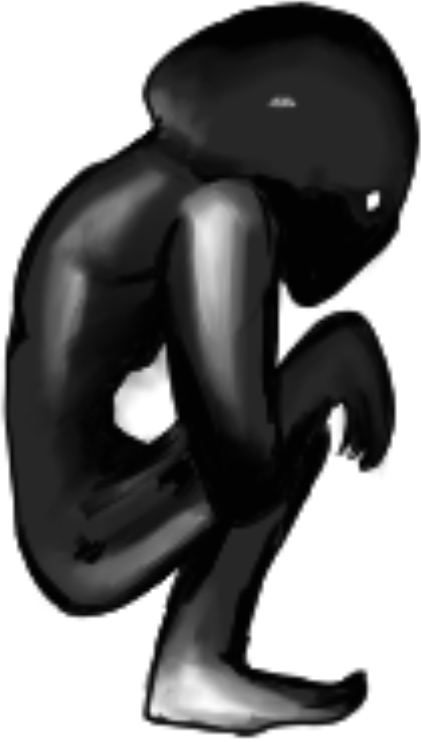
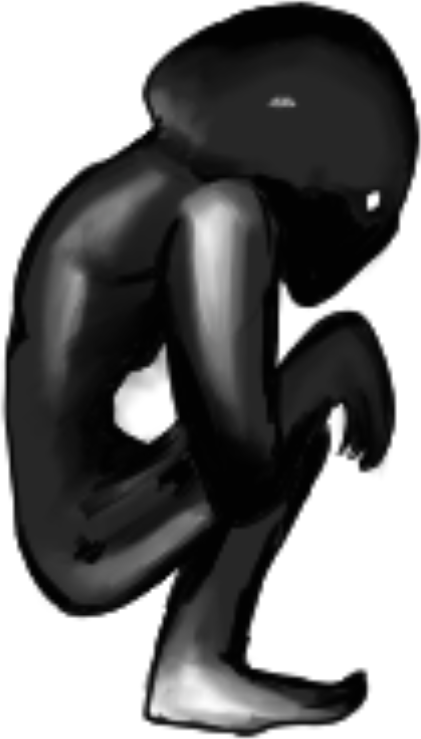
Patrol anomalies get their own bigger drawings: a runner and a ceiling hanger
Sprint is the four legged runner (three frames: slow steps on patrol, fast on the dash, held while it winds
up), rolled once per spawn to run on the floor or upside down on the ceiling. CoverHug hangs from the top of
the screen and drifts from door to door above the hallway doors; its band used to sit at mid wall height.
Blink and Slide keep the crouched body but are 3 units tall now (was 1.9), Sprint is about 4.5 wide and
CoverHug about 4.6. The exposed face is placed on each drawing's head. prep_characters.py now really makes
all four pictures.

diff --git a/Assets/_Project/Scripts/Horror/WanderingAnomaly.cs b/Assets/_Project/Scripts/Horror/WanderingAnomaly.cs
@@ -83,11 +83,13 @@ namespace Hollowbrook.Horror
             };
 
             _sr = gameObject.AddComponent<SpriteRenderer>();
-            _sr.sprite = ProceduralArt.Get("char_anomaly");   // one body for now, behaviours differ
+            _sr.sprite = ProceduralArt.Get(BehaviorProfile.ArtKey(kind));
+            if (kind == AnomalyBehaviorKind.Sprint) LoadRunFrames();
             _sr.sortingOrder = 40; // under the darkness overlay => silhouette in dim light
 
             // spawn INSIDE the behavior's own vertical band - no contradictory coordinates
-            transform.localPosition = new Vector3(spawn.x, RoomInstance.FloorY + _profile.SpawnY, 0);
+            float startX = kind == AnomalyBehaviorKind.CoverHug ? BehaviorProfile.NearestDoorX(spawn.x) : spawn.x;   // the hanger starts above a door
+            transform.localPosition = new Vector3(startX, RoomInstance.FloorY + _profile.SpawnY, 0);
             _lastX = spawn.x;
             _lifetime = hallucination ? GameRules.Current.PhantomLifetimeSeconds : GameRules.Current.AnomalyLifetimeSeconds;
             PickWanderTarget(PlayerPos());
@@ -173,6 +175,7 @@ namespace Hollowbrook.Horror
             }
             MoveBehavior(dt, views, sameRoom, active);
             FaceTheWayItMoves();
+            AnimateRun(dt);
             TickVisibility(views, sameRoom);
             if (active) ProximityEffects(dt, views);
         }
@@ -334,7 +337,42 @@ namespace Hollowbrook.Horror
 
         /// <summary>The spawner hands each anomaly a seed derived from the run rng, so
         /// wander targets and retreat sides replay identically for the same run.</summary>
-        public void SeedMovement(int seed) => _moveRng = new GameRng(seed);
+        public void SeedMovement(int seed)
+        {
+            _moveRng = new GameRng(seed);
+            // the runner is on the floor or upside down on the ceiling, rolled once per spawn
+            if (Kind == AnomalyBehaviorKind.Sprint && !IsHallucination && _moveRng.Chance(0.5f)) RunOnCeiling();
+        }
+
+        public bool OnCeiling { get; private set; }
+
+        private void RunOnCeiling()
+        {
+            OnCeiling = true;
+            var p = transform.localPosition;
+            p.y = RoomInstance.FloorY + _profile.MaxY;
+            transform.localPosition = p;
+            _sr.flipY = true;
+        }
+
+        // The runner is three drawn frames: slow steps on patrol, fast on the dash, held still while it winds up.
+        private Sprite[] _runFrames;
+        private float _frameClock;
+
+        private void LoadRunFrames()
+        {
+            _runFrames = new[] { ProceduralArt.Get("char_anomaly_sprint_a"), ProceduralArt.Get("char_anomaly_sprint_b"), ProceduralArt.Get("char_anomaly_sprint_c") };
+        }
+
+        private void AnimateRun(float dt)
+        {
+            if (_runFrames == null || _sr == null) return;
+            float fps = 5f;
+            if (_dashTimer > 0f) fps = 14f;
+            else if (_telegraph >= 0f || _dashRecover > 0f) fps = 0f;
+            _frameClock += fps * dt;
+            _sr.sprite = _runFrames[(int)_frameClock % _runFrames.Length];
+        }
 
         private void BeginRetreat(ViewManager views)
         {
@@ -459,9 +497,20 @@ namespace Hollowbrook.Horror
 
         private void PickWanderTarget(Vector3 player)
         {
+            if (Kind == AnomalyBehaviorKind.CoverHug) { PickDoorTarget(); return; }
             float half = _room != null ? _room.HalfWidth : 10f;
             _targetX = -half + 1f + MoveRng.NextFloat() * Mathf.Max(0.1f, (half - 1f) * 2f);
             if (Mathf.Abs(_targetX - player.x) < 2f) _targetX = -_targetX;
+        }
+
+        // The ceiling hanger drifts from door to door along the top of the hallway.
+        private void PickDoorTarget()
+        {
+            float here = transform.localPosition.x;
+            float door = here;
+            for (int tries = 0; tries < 6 && Mathf.Abs(door - here) < 1f; tries++)
+                door = BehaviorProfile.DoorXs[MoveRng.NextInt(0, BehaviorProfile.DoorXs.Length)];
+            _targetX = door;
         }
 
         private void PickSlideTarget(Vector3 player, bool stalking)
@@ -478,10 +527,16 @@ namespace Hollowbrook.Horror
         private void ShowFace()
         {
             if (_faceGo != null) { _faceGo.SetActive(true); return; }
+            // where the head is in each drawing, and how big the shown face is
+            var head = new Vector2(0.3f, 1.2f);   // the crouched thing: its bowed head
+            float size = 0.87f;
+            if (Kind == AnomalyBehaviorKind.Sprint) { head = new Vector2(1.7f, OnCeiling ? -0.45f : 0.45f); size = 0.7f; }
+            else if (Kind == AnomalyBehaviorKind.CoverHug) { head = new Vector2(-0.3f, -0.55f); size = 0.6f; }
+            if (_sr.flipX) head.x = -head.x;
             _faceGo = new GameObject("ExposedFace");
             _faceGo.transform.SetParent(transform, false);
-            _faceGo.transform.localPosition = new Vector3(0.2f, 0.75f, -0.1f);   // over the bowed head
-            _faceGo.transform.localScale = new Vector3(0.55f, 0.55f, 1f);
+            _faceGo.transform.localPosition = new Vector3(head.x, head.y, -0.1f);
+            _faceGo.transform.localScale = new Vector3(size, size, 1f);
             _face = _faceGo.AddComponent<SpriteRenderer>();
             _face.sprite = ProceduralArt.Portrait("anom",
                 new Portrait { HairStyle = 2, FaceVariant = 4, Accessory = 0, Distorted = true }, 96, 120);

diff --git a/Assets/_Project/Scripts/GameLogic/AnomalyBehaviorRules.cs b/Assets/_Project/Scripts/GameLogic/AnomalyBehaviorRules.cs
@@ -46,9 +46,42 @@ namespace Hollowbrook.Logic
     /// floor line (world y = floorY + offset), so spawn and clamp bands can never contradict.</summary>
     public struct BehaviorProfile
     {
-        /// <summary>Height of a ground anomaly's centre above the floor line. Its art is 1.9 units
-        /// tall (ProceduralArt FilePpus), so half of that puts its feet on the floor.</summary>
-        public const float GroundCentreY = 0.95f;
+        /// <summary>The picture key of an anomaly kind. Blink and Slide share the crouched body.</summary>
+        public static string ArtKey(AnomalyBehaviorKind kind)
+        {
+            switch (kind)
+            {
+                case AnomalyBehaviorKind.Sprint: return "char_anomaly_sprint_a";
+                case AnomalyBehaviorKind.CoverHug: return "char_anomaly_coverhug";
+                default: return "char_anomaly";
+            }
+        }
+
+        /// <summary>Where the hallway doors are along its length (FloorPlan HallX). The ceiling hanger drifts above them.</summary>
+        public static readonly float[] DoorXs = { -13.8f, -8.8f, 0.4f, 8.6f, 11.0f, 13.3f };
+
+        public static float NearestDoorX(float x)
+        {
+            float best = DoorXs[0];
+            foreach (float d in DoorXs)
+                if (System.Math.Abs(d - x) < System.Math.Abs(best - x)) best = d;
+            return best;
+        }
+
+        // How tall each drawing is on screen, in world units (the picture sizes are set in ProceduralArt FilePpus).
+        public const float CrouchedHeight = 3.0f;   // Blink and Slide: the crouched thing, a bit more than the guard
+        public const float RunnerHeight = 2.5f;     // Sprint: the four legged runner (it is about 4.5 wide)
+        public const float HangerHeight = 1.9f;     // CoverHug: it hangs from the ceiling (about 4.6 wide)
+
+        /// <summary>The top of the screen, as a height above the floor line: the camera shows 5 units above its
+        /// middle and the floor line sits 3.1 below the middle. The hallway ceiling is up there.</summary>
+        public const float TopOfScreenY = 8.1f;
+
+        /// <summary>Height of a crouched anomaly's centre above the floor line: half its height puts its feet on the floor.</summary>
+        public const float GroundCentreY = CrouchedHeight * 0.5f;
+        public const float RunnerFloorY = RunnerHeight * 0.5f;                  // the runner on the floor
+        public const float RunnerCeilingY = TopOfScreenY - RunnerHeight * 0.5f; // the runner upside down on the ceiling
+        public const float HangerCentreY = TopOfScreenY - HangerHeight * 0.5f;  // hangs from the top edge of the screen
 
         public float MoveSpeed;
         public float SpawnY;              // floor-relative spawn height
@@ -90,7 +123,7 @@ namespace Hollowbrook.Logic
                     break;
                 case AnomalyBehaviorKind.Sprint:
                     p.MoveSpeed = t.SprintSpeed;
-                    p.SpawnY = GroundCentreY; p.MinY = GroundCentreY; p.MaxY = GroundCentreY;
+                    p.SpawnY = RunnerFloorY; p.MinY = RunnerFloorY; p.MaxY = RunnerCeilingY;   // the floor or the ceiling
                     p.CatchGraceSeconds = t.CatchGraceSprint;
                     p.TelegraphSeconds = t.SprintTelegraphSeconds;
                     p.DashSpeed = t.SprintDashSpeed;
@@ -100,7 +133,7 @@ namespace Hollowbrook.Logic
                     break;
                 default: // CoverHug - ceiling lurker; spawn inside its own band, never clamped out
                     p.MoveSpeed = t.CoverHugSpeed;
-                    p.SpawnY = 4.4f; p.MinY = 3.6f; p.MaxY = 4.6f;
+                    p.SpawnY = HangerCentreY; p.MinY = HangerCentreY; p.MaxY = HangerCentreY;
                     p.CatchGraceSeconds = t.CatchGraceCoverHug;
                     p.CeilingLurker = true;
                     break;

diff --git a/Tools/LogicTests/Program.cs b/Tools/LogicTests/Program.cs
@@ -1944,14 +1944,26 @@ namespace Hollowbrook.LogicTests
             Check(blink.CatchGraceSeconds == bt.CatchGraceBlink && slide.CatchGraceSeconds == bt.CatchGraceSlide &&
                   sprint.CatchGraceSeconds == bt.CatchGraceSprint && hug.CatchGraceSeconds == bt.CatchGraceCoverHug,
                 "catch windups are per-behavior - no shared coverHug-named constant");
-            Check(Math.Abs(hug.SpawnY - 4.4f) < 1e-3f && hug.SpawnY >= hug.MinY && hug.SpawnY <= hug.MaxY,
+            Check(Math.Abs(hug.SpawnY - BehaviorProfile.HangerCentreY) < 1e-3f && hug.SpawnY >= hug.MinY && hug.SpawnY <= hug.MaxY,
                 "CoverHug spawns INSIDE its own clamp band (no contradictory coordinates)");
-            Check(Math.Abs(blink.SpawnY - BehaviorProfile.GroundCentreY) < 1e-3f && slide.SpawnY == blink.SpawnY && sprint.SpawnY == blink.SpawnY,
-                  "ground anomalies sit low: their small body stands on the floor line");
-            Check(BehaviorProfile.GroundCentreY < 1.2f, "...a crouched thing, not a giant (the old body was 2.4 high)");
-            Check(hug.MinY > blink.MaxY, "the ceiling band sits above the ground walkers");
-            Check(blink.MinY == blink.MaxY && slide.MinY == slide.MaxY && sprint.MinY == sprint.MaxY,
-                "ground walkers stay on the floor line");
+            Check(Math.Abs(hug.SpawnY + BehaviorProfile.HangerHeight * 0.5f - BehaviorProfile.TopOfScreenY) < 1e-3f,
+                "CoverHug hangs from the top of the screen: its top edge is the ceiling");
+            Check(Math.Abs(blink.SpawnY - BehaviorProfile.GroundCentreY) < 1e-3f && slide.SpawnY == blink.SpawnY,
+                  "Blink and Slide stand on the floor line");
+            Check(Math.Abs(BehaviorProfile.GroundCentreY * 2f - BehaviorProfile.CrouchedHeight) < 1e-3f, "...their centre is half their height");
+            Check(Math.Abs(sprint.SpawnY - BehaviorProfile.RunnerFloorY) < 1e-3f && Math.Abs(sprint.MinY - BehaviorProfile.RunnerFloorY) < 1e-3f
+                  && Math.Abs(sprint.MaxY - BehaviorProfile.RunnerCeilingY) < 1e-3f,
+                "the runner may be on the floor or on the ceiling: its band spans both");
+            Check(Math.Abs(BehaviorProfile.RunnerCeilingY + BehaviorProfile.RunnerHeight * 0.5f - BehaviorProfile.TopOfScreenY) < 1e-3f,
+                "...on the ceiling its back touches the top of the screen");
+            Check(hug.MinY > blink.MaxY && hug.MinY > sprint.MinY, "the ceiling band sits above the ground walkers");
+            Check(blink.MinY == blink.MaxY && slide.MinY == slide.MaxY && hug.MinY == hug.MaxY,
+                "Blink, Slide and CoverHug stay at their one height");
+            Eq(BehaviorProfile.ArtKey(AnomalyBehaviorKind.Sprint), "char_anomaly_sprint_a", "the runner has its own drawing");
+            Eq(BehaviorProfile.ArtKey(AnomalyBehaviorKind.CoverHug), "char_anomaly_coverhug", "the hanger has its own drawing");
+            Eq(BehaviorProfile.ArtKey(AnomalyBehaviorKind.Blink) + BehaviorProfile.ArtKey(AnomalyBehaviorKind.Slide), "char_anomalychar_anomaly", "Blink and Slide share the crouched body");
+            Eq(BehaviorProfile.NearestDoorX(0.9f), 0.4f, "the hanger finds the nearest door");
+            Eq(BehaviorProfile.NearestDoorX(-50f), -13.8f, "...even far away");
             Check(bt.RetreatSpeed > blink.MoveSpeed && bt.RetreatSpeed > hug.MoveSpeed, "a repelled anomaly withdraws faster than it stalks");
             var customB = bt; customB.CatchGraceCoverHug = 5f;
             Eq(BehaviorProfile.For(AnomalyBehaviorKind.CoverHug, customB).CatchGraceSeconds, 5f, "CoverHug grace is tunable on its own");

diff --git a/Tools/FlowCheck/Program.cs b/Tools/FlowCheck/Program.cs
@@ -3611,16 +3611,40 @@ namespace FlowCheck
             }
             views.Spawner.DiscardLive();
 
+            // Sprint: on the floor or upside down on the ceiling, rolled once per spawn
+            int onFloor = 0, upsideDown = 0;
+            for (int n = 0; n < 16; n++)
+            {
+                var run = views.SpawnAnomalyOfKind(AnomalyBehaviorKind.Sprint);
+                if (run == null) break;
+                if (run.OnCeiling)
+                {
+                    upsideDown++;
+                    Check(Mathf.Abs(run.Pos.y - (RoomInstance.FloorY + BehaviorProfile.RunnerCeilingY)) < 1e-3f && run.Renderer.flipY,
+                        "W6: a ceiling runner is upside down at the top of the screen");
+                }
+                else
+                {
+                    onFloor++;
+                    Check(Mathf.Abs(run.Pos.y - (RoomInstance.FloorY + BehaviorProfile.RunnerFloorY)) < 1e-3f && !run.Renderer.flipY,
+                        "W6: a floor runner stands on the floor line, the right way up");
+                }
+                views.Spawner.DiscardLive();
+            }
+            Check(onFloor > 0 && upsideDown > 0, $"W6: the runner is sometimes on the floor and sometimes on the ceiling ({onFloor} / {upsideDown})");
+
             // CoverHug: ceiling band is spawn AND clamp; only Focus identifies it
             var hug = views.SpawnAnomalyOfKind(AnomalyBehaviorKind.CoverHug);
             Check(hug != null, "W6: CoverHug spawns");
             if (hug != null)
             {
                 float floorY = RoomInstance.FloorY;
-                Check(hug.Pos.y >= floorY + 3.6f - 1e-3f && hug.Pos.y <= floorY + 4.6f + 1e-3f,
+                Check(Mathf.Abs(hug.Pos.y - (floorY + BehaviorProfile.HangerCentreY)) < 1e-3f,
                     $"W6: CoverHug spawns inside its ceiling band (y={hug.Pos.y:F2})");
+                Check(System.Array.Exists(BehaviorProfile.DoorXs, d => Mathf.Abs(d - hug.Pos.x) < 0.05f),
+                    $"W6: CoverHug starts right above a door (x={hug.Pos.x:F2})");
                 WorldFrames(root, 150);
-                Check(!hug.Gone && hug.Pos.y >= floorY + 3.6f - 1e-3f && hug.Pos.y <= floorY + 4.6f + 1e-3f,
+                Check(!hug.Gone && Mathf.Abs(hug.Pos.y - (floorY + BehaviorProfile.HangerCentreY)) < 1e-3f,
                     $"W6: CoverHug stays on the ceiling - no contradictory clamp drags it down (y={hug.Pos.y:F2})");
                 views.Player.PlaceInRoom(hall, new Vector3(Mathf.Clamp(hug.Pos.x - 3f, -hall.HalfWidth + 1f, hall.HalfWidth - 1f), 0f, 0f));
                 SetBeam(root, rig, LightMode.Sweep);

diff --git a/Tools/prep_characters.py b/Tools/prep_characters.py
@@ -10,7 +10,9 @@ relative to each other. Names the game expects:
   char_student_NN_scared.png   the same person, frightened (a scared visitor, student or anomaly)
   char_admin.png / char_admin_glitch.png   the Night-5 administrator (the Director)
   char_guard_idle.png, char_guard_walk_a.png, char_guard_walk_b.png   the player's three poses
-  char_anomaly.png   the roaming anomaly (Slide_Anomaly/Anomaly_Slide.png, cropped to its drawing)
+  char_anomaly.png   the crouched anomaly (Slide_Anomaly/Anomaly_Slide.png, cropped to its drawing), Blink and Slide
+  char_anomaly_sprint_a/b/c.png   the running anomaly's three frames (Runner_Anomaly/Anomaly_Sprint1-3.png)
+  char_anomaly_coverhug.png   the one that hangs upside down from the ceiling (Anomaly_Coverhug)
   char_hood.png      the hooded figure standing in the peek rooms (Hood_Figure_/Hood_Figure.png)
 Re-run whenever the art changes. New .png files still need a .meta (Tools/generate_meta.py).
 """
@@ -68,6 +70,22 @@ def prep_guard():
         im.crop(box).save(os.path.join(STAFF_DST, name + ".png"))
 
 
+def prep_anomalies():
+    """The patrol anomalies, all in Characters/Anomalies. The three Sprint frames share one crop box so the
+    legs and the body stay where the artist drew them from frame to frame. The Coverhug art is cut off at
+    its top edge on purpose: it hangs from the top of the screen, so that edge is the ceiling."""
+    slide = load("Slide_Anomaly/Anomaly_Slide.png")
+    slide.crop(bbox(slide)).save(os.path.join(ANOMALY_DST, "char_anomaly.png"))
+    frames = [load("Runner_Anomaly/Anomaly_Sprint%d.png" % n) for n in (1, 2, 3)]
+    boxes = [bbox(f) for f in frames]
+    box = (min(b[0] for b in boxes), min(b[1] for b in boxes), max(b[2] for b in boxes), max(b[3] for b in boxes))
+    for f, name in zip(frames, ("char_anomaly_sprint_a", "char_anomaly_sprint_b", "char_anomaly_sprint_c")):
+        f.crop(box).save(os.path.join(ANOMALY_DST, name + ".png"))
+    hug = load("Anomaly_Coverhug/Anomaly_Coverhug.png")
+    hug.crop(bbox(hug)).save(os.path.join(ANOMALY_DST, "char_anomaly_coverhug.png"))
+    print("anomalies: sprint crop", box, "coverhug", bbox(hug))
+
+
 def prep_hood():
     """The hooded figure is a small silhouette (90x152 px), so it is cropped to its drawing and
     enlarged 4x with a smooth filter: the game then draws it about 3.2 units tall without
@@ -81,6 +99,7 @@ def prep_hood():
 
 def main():
     prep_hood()
+    prep_anomalies()
     pairs = list(STUDENTS) + [ADMIN]
     crops = {}
     for pair in pairs:

diff --git a/docs/GAMEPLAY-OVERVIEW.md b/docs/GAMEPLAY-OVERVIEW.md
@@ -69,7 +69,7 @@ dark. The doors follow the desk map: Security, Room 101, Room 202, CR-1, the sea
 (FloorPlan.cs draws the hallway and both maps). The **flashlight** points at the cursor (`F` sweep
 on/off, `Q` focus, `L` off). While it is lit it turns the guard to face it; while it is off he faces
 the way he walks. **One patrol cycle** is required before END SHIFT: peek into Room 101, Room 202 and
-a CR (either one). **Anomalies** (small, crouched things that slide along the floor, one hangs from the ceiling) roam the hallway only, from night 1, with one already waiting when each patrol starts: hold the Focus beam on it to repel it, and it is gone for a while. The wide Sweep beam only shows what is there and slows it to half speed while it is on it (`beamPace`), so there is time to switch to Focus (`Q`); it never repels, freezes or interrupts anything. The guard carries only a weak light, so what is ahead of him is black until the flashlight finds it: sweep it along the walls, up at the ceiling and down at the floor. Every room is a
+a CR (either one). **Anomalies** (a crouched thing about as tall as the guard, a four legged runner that runs on the floor or upside down on the ceiling, and one that hangs from the top of the hallway above the doors; they slide along the floor, one hangs from the ceiling) roam the hallway only, from night 1, with one already waiting when each patrol starts: hold the Focus beam on it to repel it, and it is gone for a while. The wide Sweep beam only shows what is there and slows it to half speed while it is on it (`beamPace`), so there is time to switch to Focus (`Q`); it never repels, freezes or interrupts anything. The guard carries only a weak light, so what is ahead of him is black until the flashlight finds it: sweep it along the walls, up at the ceiling and down at the floor. Every room is a
 **peek** from its door: a black cover with a hole that follows the mouse shows the room behind it
 (on when the room opens; `F` on/off, `Q` wide/tight). `E` selects what the lit lamp is on, nothing else; `S` or the bottom
 edge steps back. The peek rooms hold a **hooded figure** that stands perfectly still, in some rooms each night and always at least one. Put the Focus lamp (`Q`) fully on him (the cursor on his body; the wide lamp only shows him) and he starts to flicker around while the lamp dims and flickers, then everything goes black, and a slow fade brings the room back with him gone. Once started it always plays to the end and the lamp, `E` and stepping back are locked meanwhile. He never attacks. The peek lamp is about 1.3x smaller than it was. The patrol flashlight no longer paints a yellow cone: it clears the darkness, so the room shows its own art, like the peek lamp. A room does not count for the cycle until its anomaly is gone,. Besides the clues there
